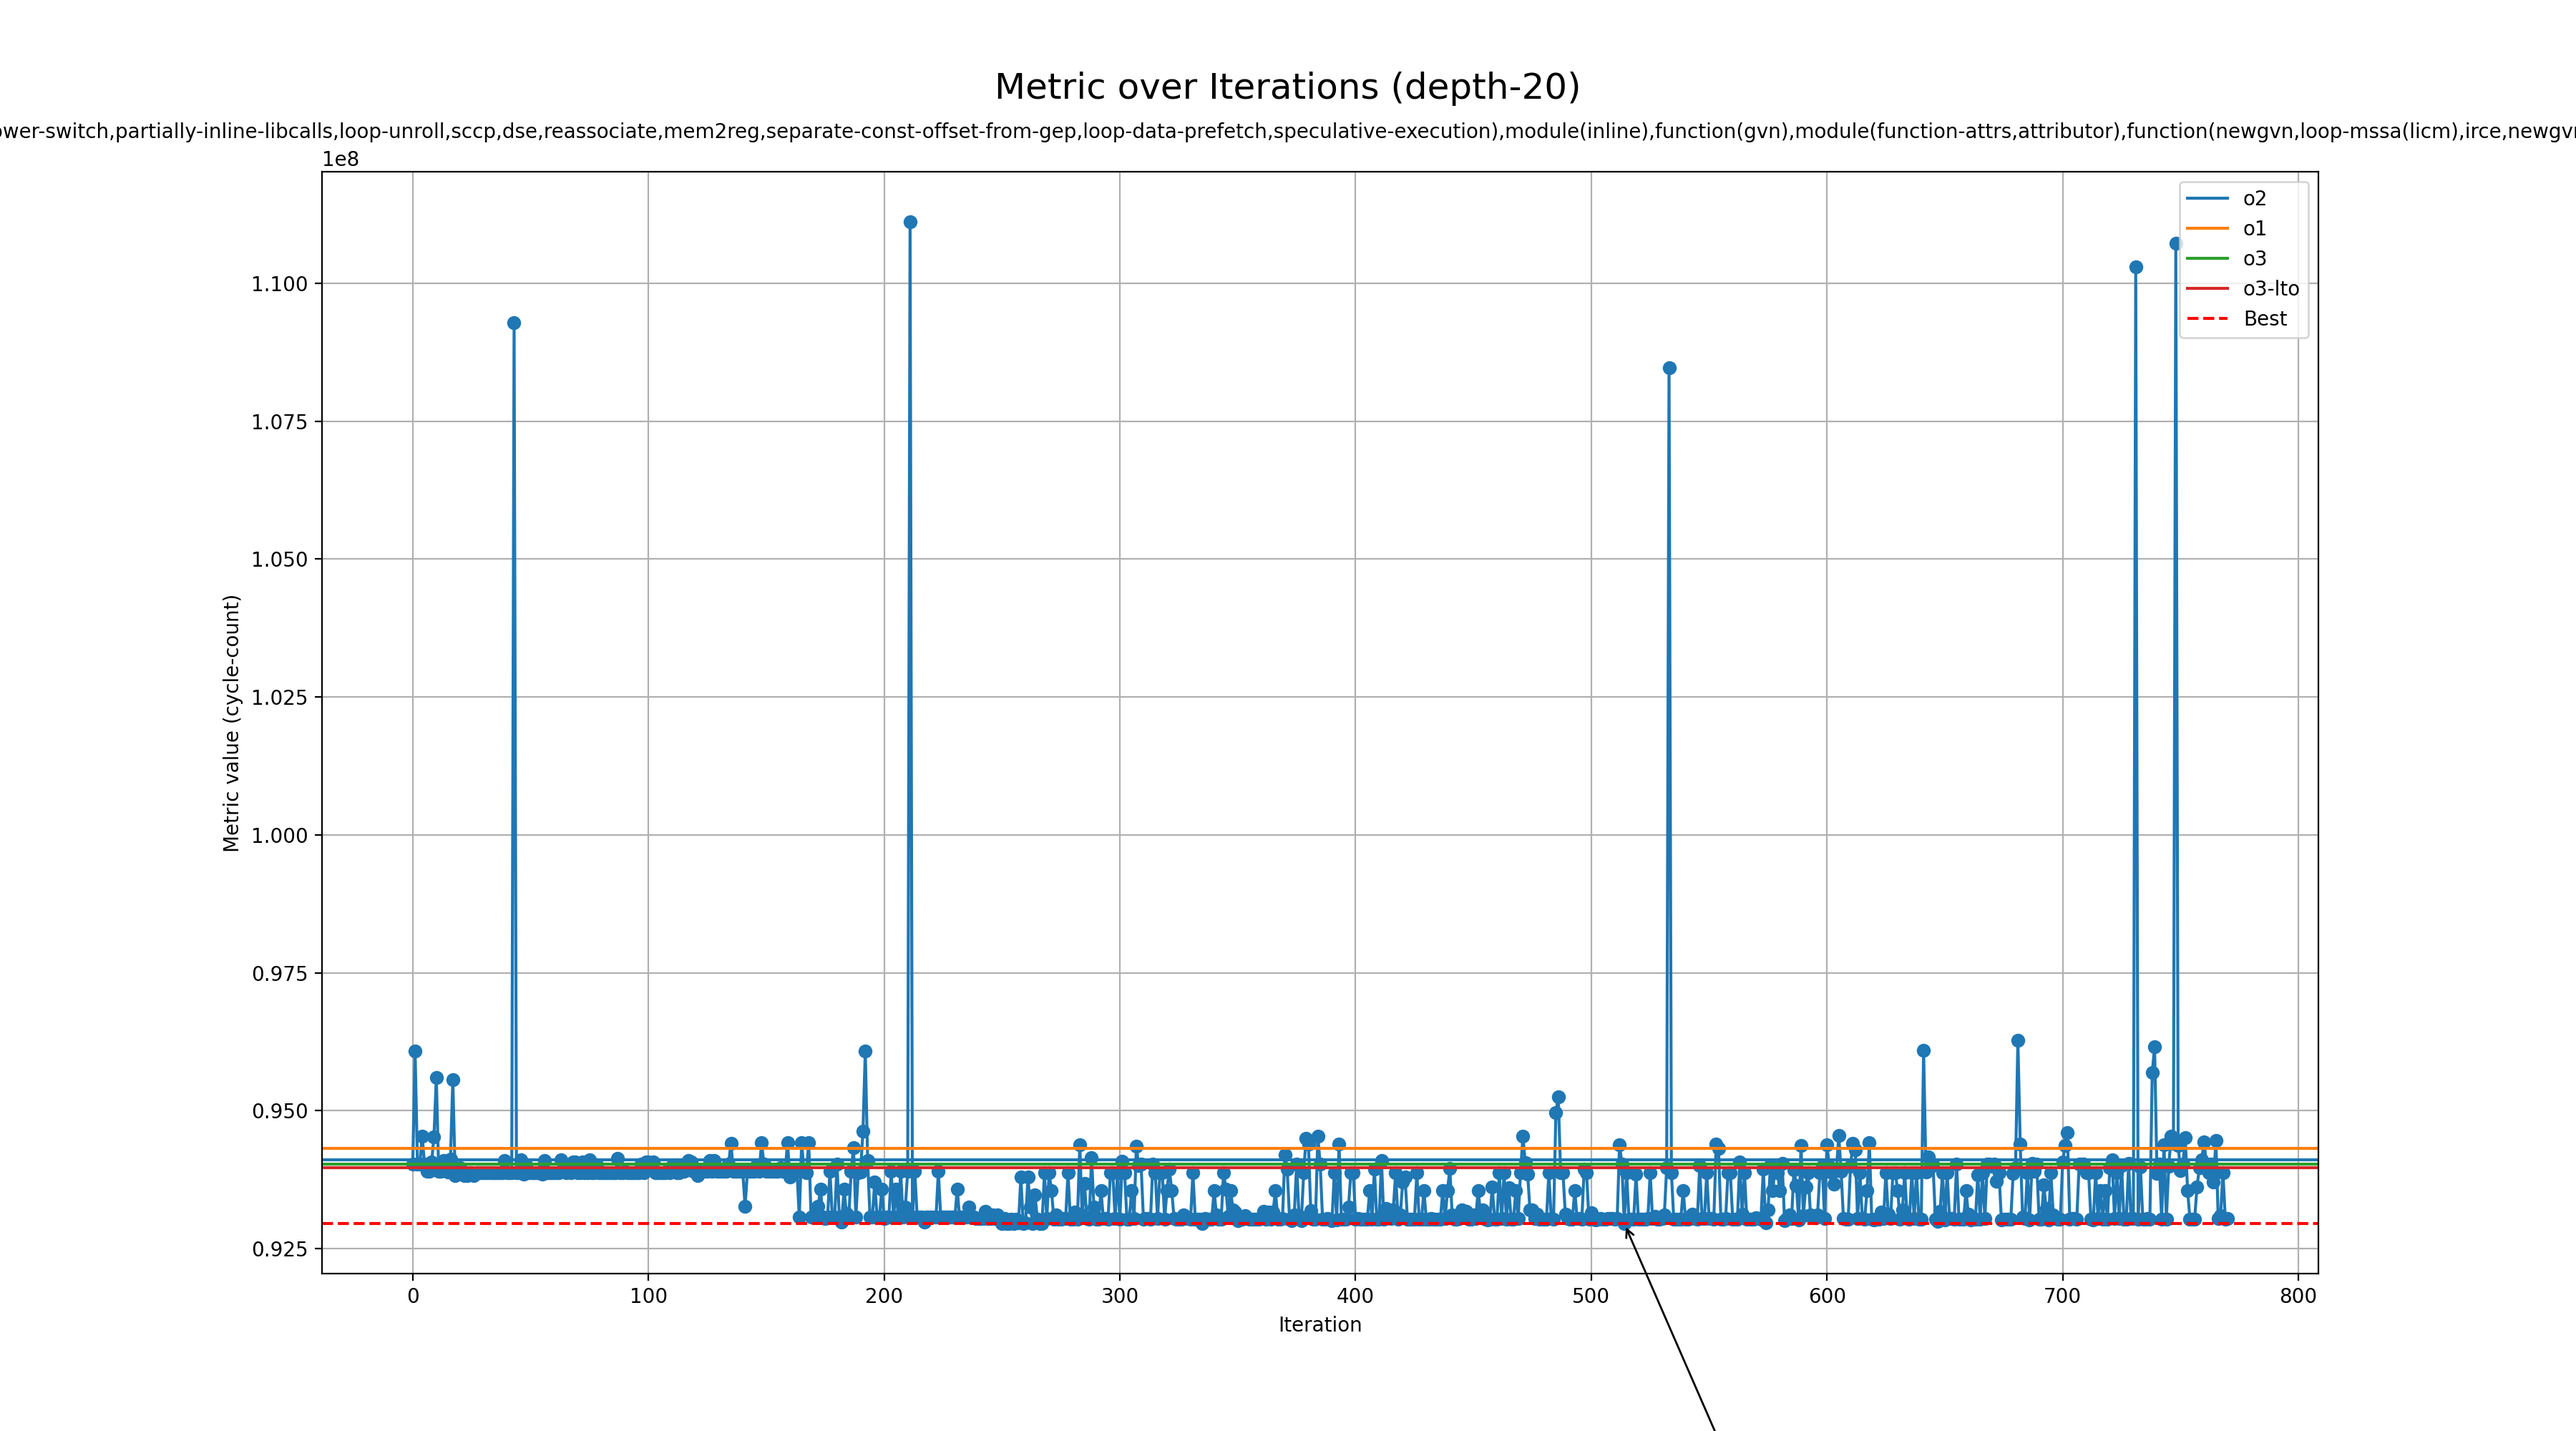
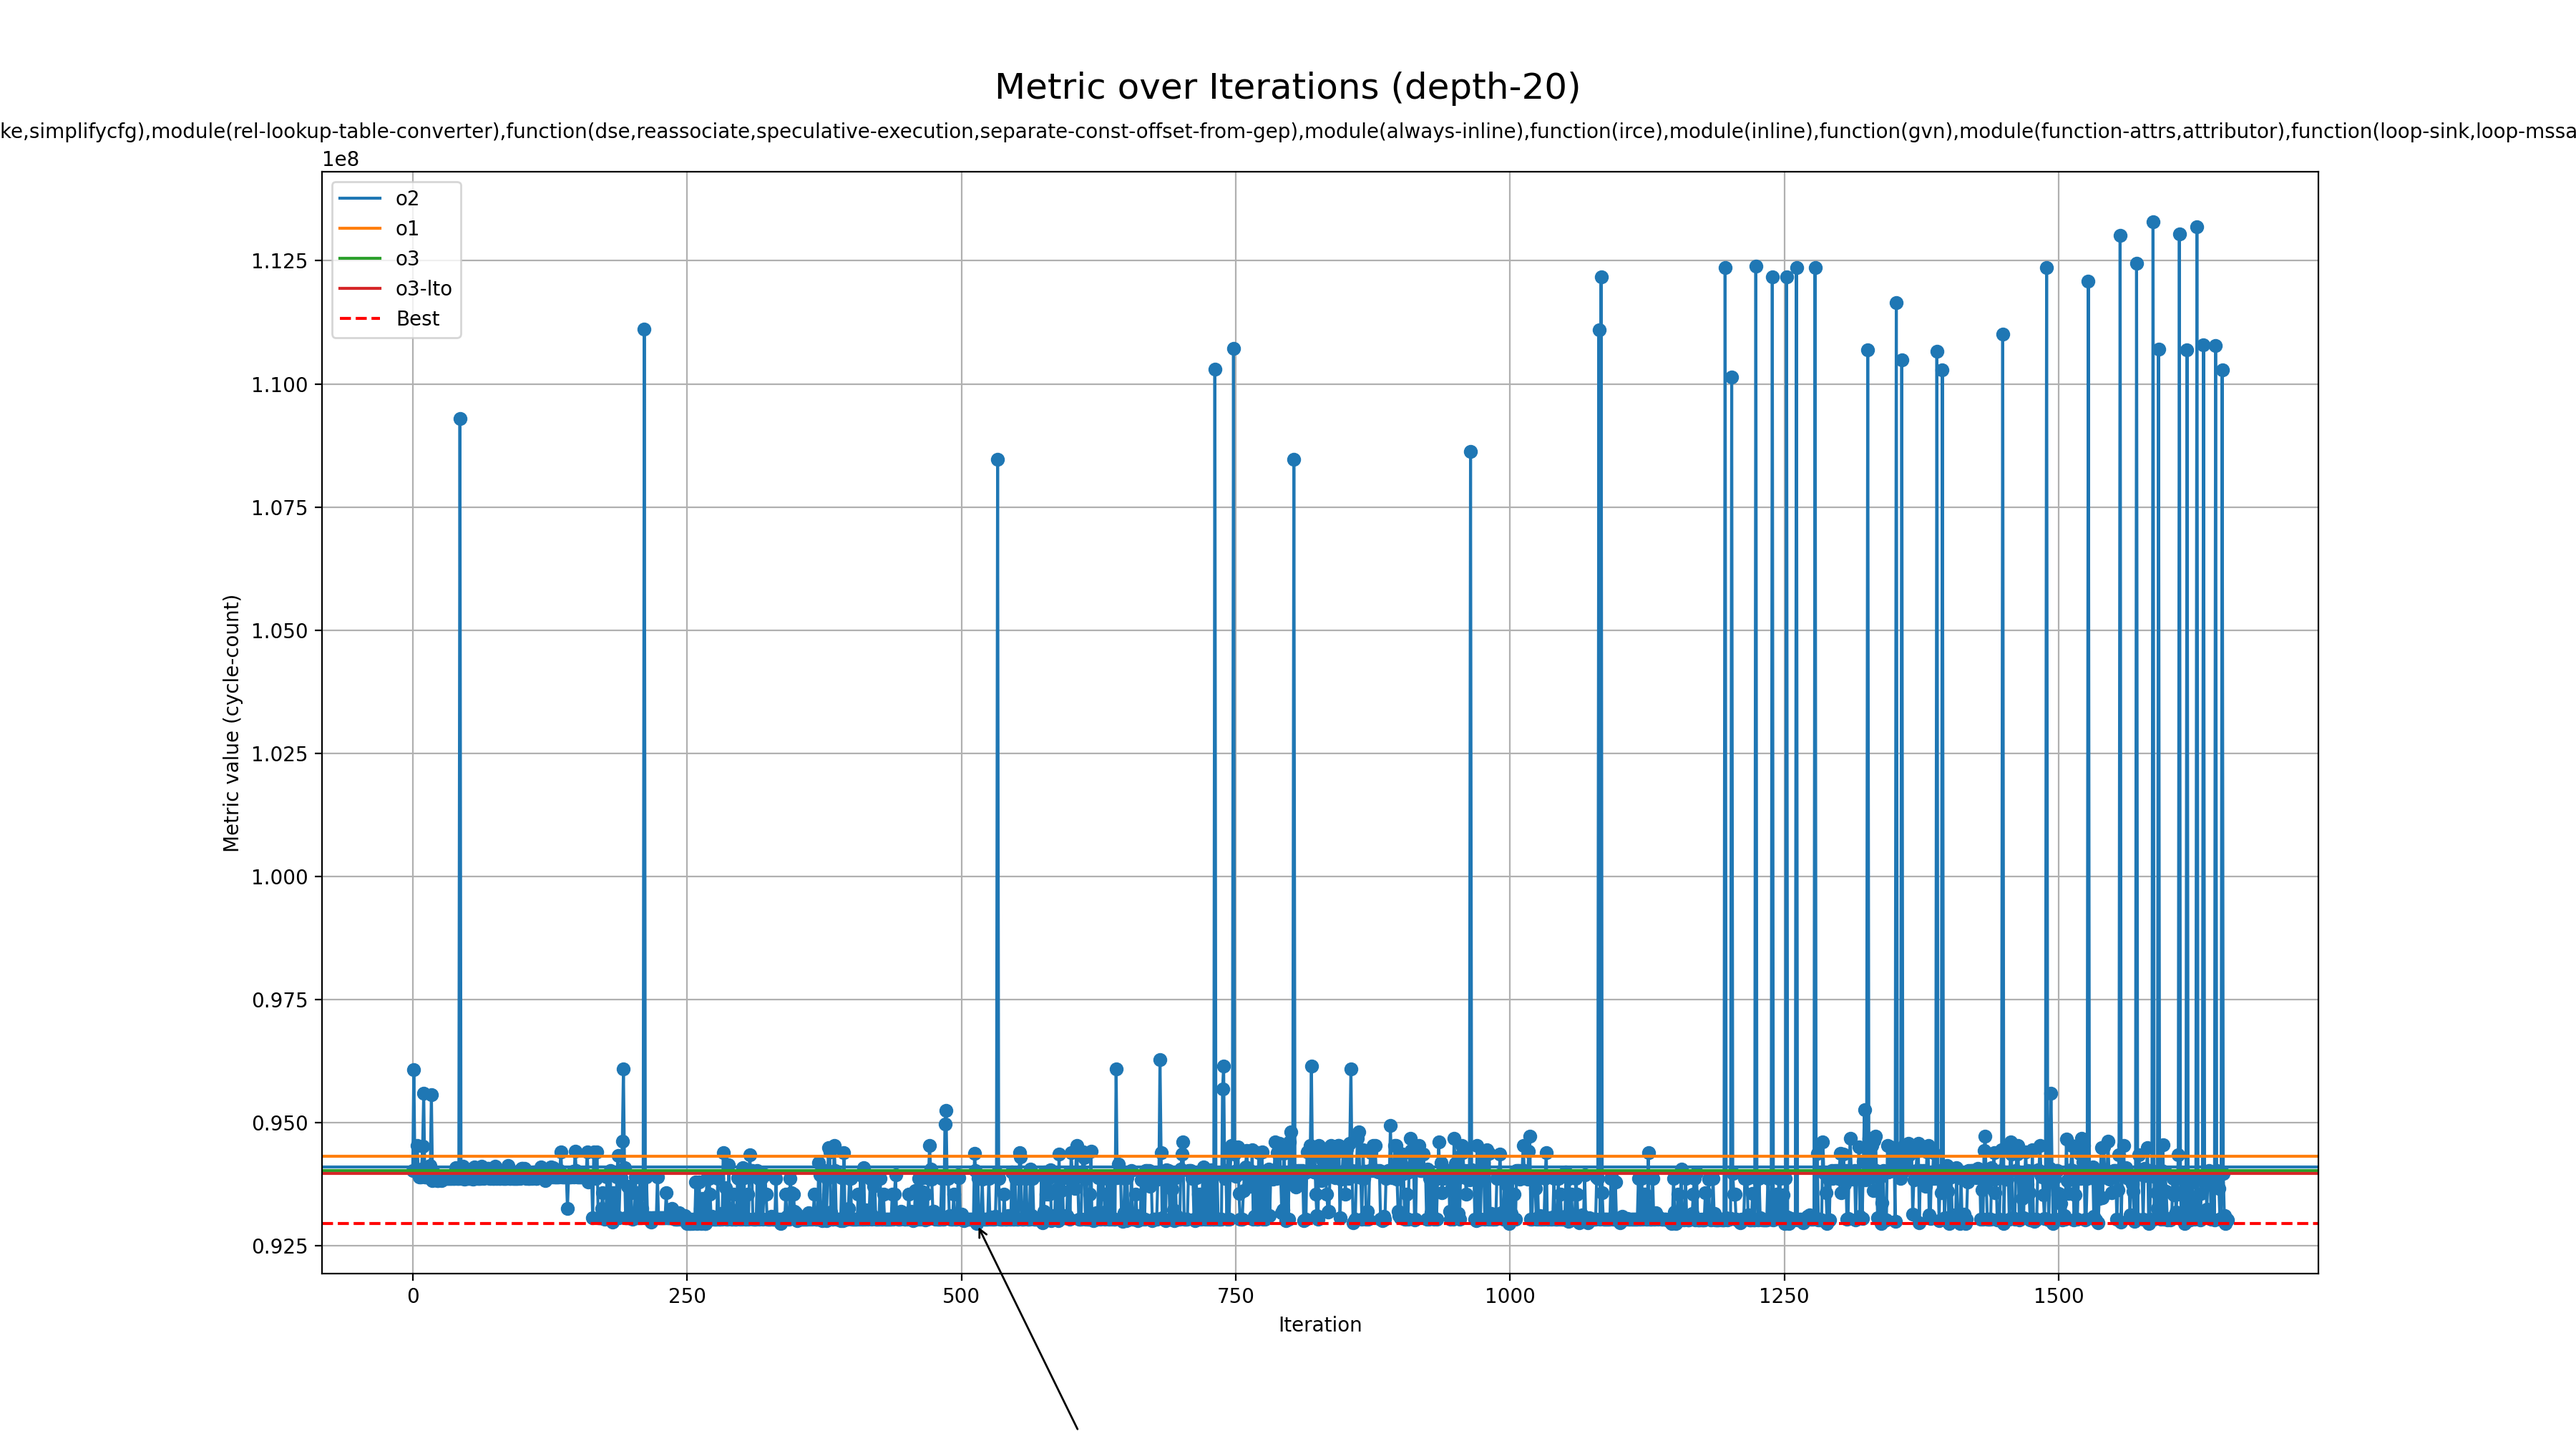
Finalize npb-cycle-count report

diff --git a/results/docs/rq2/report/all-npb-cycle-count/README.md b/results/docs/rq2/report/all-npb-cycle-count/README.md
@@ -22,8 +22,8 @@
 
 ## Best profile
 
-- Best profile: Profile(profile_name='genetic', rustflags='-C opt-level=3 -C lto=fat -C embed-bitcode -C codegen-units=1 -Cllvm-args=-inline-threshold=4328 -Cllvm-args=-jump-threading-implication-search-threshold=7 -Cllvm-args=-licm-max-num-uses-traversed=1 -Cllvm-args=-licm-versioning-max-depth-threshold=1 -Cllvm-args=-loop-distribute-scev-check-threshold=37 -Cllvm-args=-max-dependences=23 -Cllvm-args=-max-nested-scalar-reduction-interleave=2 -Cllvm-args=-max-speculation-depth=1 -Cllvm-args=-memdep-block-scan-limit=276', cflags='-O3 -mllvm -inline-threshold=4328 -mllvm -jump-threading-implication-search-threshold=7 -mllvm -licm-max-num-uses-traversed=1 -mllvm -licm-versioning-max-depth-threshold=1 -mllvm -loop-distribute-scev-check-threshold=37 -mllvm -max-dependences=23 -mllvm -max-nested-scalar-reduction-interleave=2 -mllvm -max-speculation-depth=1 -mllvm -memdep-block-scan-limit=276', passes=['function(lower-switch,partially-inline-libcalls,loop-unroll,sccp,dse,reassociate,mem2reg,separate-const-offset-from-gep,loop-data-prefetch,speculative-execution),module(inline),function(gvn),module(function-attrs,attributor),function(newgvn,loop-mssa(licm),irce,newgvn,loop(loop-reduce),loop-data-prefetch)'], prepopulate_passes=True, lower_atomic_before=False)
-- Metric: 376764825
+- Best profile: Profile(profile_name='genetic', rustflags='-C opt-level=3 -C lto=fat -C embed-bitcode -C codegen-units=1 -Cllvm-args=-inline-threshold=4328 -Cllvm-args=-jump-threading-implication-search-threshold=8 -Cllvm-args=-licm-versioning-max-depth-threshold=1 -Cllvm-args=-max-nested-scalar-reduction-interleave=2 -Cllvm-args=-max-speculation-depth=1 -Cllvm-args=-max-uses-for-sinking=47 -Cllvm-args=-memdep-block-number-limit=1121 -Cllvm-args=-memdep-block-scan-limit=276', cflags='-O3 -mllvm -inline-threshold=4328 -mllvm -jump-threading-implication-search-threshold=8 -mllvm -licm-versioning-max-depth-threshold=1 -mllvm -max-nested-scalar-reduction-interleave=2 -mllvm -max-speculation-depth=1 -mllvm -max-uses-for-sinking=47 -mllvm -memdep-block-number-limit=1121 -mllvm -memdep-block-scan-limit=276', passes=['function(lower-invoke,simplifycfg),module(rel-lookup-table-converter),function(dse,reassociate,speculative-execution,separate-const-offset-from-gep),module(always-inline),function(irce),module(inline),function(gvn),module(function-attrs,attributor),function(loop-sink,loop-mssa(licm),dse,newgvn,loop(loop-reduce),reg2mem)'], prepopulate_passes=True, lower_atomic_before=False)
+- Metric: 376601659
 - Mode: depth-20
 - Tune config: TuneConfig(tune_lto=True, tune_codegen_units=True, tune_opt_level=True, tune_prepopulate_passes=False, module_passes=['always-inline', 'inline', 'partial-inliner', 'attributor', 'add-discriminators', 'globalsplit', 'globaldce', 'globalopt', 'wholeprogramdevirt', 'lower-global-dtors', 'strip', 'strip-dead-debug-info', 'strip-dead-prototypes', 'bounds-checking', 'loop-extract', 'mergefunc', 'extract-blocks', 'constmerge', 'deadargelim', 'function-attrs', 'strip-gc-relocates', 'hotcoldsplit', 'argpromotion', 'ipsccp', 'synthetic-counts-propagation', 'rel-lookup-table-converter', 'aggressive-instcombine'], function_passes=['loop-mssa(licm)', 'instcombine', 'bdce', 'correlated-propagation', 'loop-sink', 'loop-data-prefetch', 'loop-fusion', 'mergeicmps', 'mldst-motion', 'newgvn', 'partially-inline-libcalls', 'sroa', 'sink', 'speculative-execution', 'slsr', 'sccp', 'gvn', 'tailcallelim', 'adce', 'dse', 'indvars', 'jump-threading', 'lcssa', 'loop-unroll', 'memcpyopt', 'loop-simplify', 'simplifycfg', 'reassociate', 'mem2reg', 'reg2mem', 'simple-loop-unswitch', 'mergereturn', 'break-crit-edges', 'dce', 'lower-invoke', 'lower-switch', 'callsite-splitting', 'consthoist', 'div-rem-pairs', 'early-cse', 'float2int', 'gvn-hoist', 'gvn-sink', 'guard-widening', 'irce', 'instsimplify', 'libcalls-shrinkwrap', 'nary-reassociate', 'separate-const-offset-from-gep'], loop_passes=['loop-idiom', 'loop-reduce', 'loop-rotate', 'loop-unroll-and-jam', 'loop-unroll-full', 'loop-deletion', 'loop-instsimplify', 'loop-interchange', 'loop-predication', 'loop-versioning-licm'], allowed_opt_levels=['2', '3'], default_prepopulate_passes=True, default_single_codegen_unit=True, allowed_lto=['off', 'thin', 'fat'])
 
@@ -61,15 +61,15 @@
 ### Group loop-intensive
   
 ![genetic-plot-loop-intensive](./genetic-plot-loop-intensive.png)
-### Group rust
-  
-![genetic-plot-rust](./genetic-plot-rust.png)
-### Group memory-intensive
-  
-![genetic-plot-memory-intensive](./genetic-plot-memory-intensive.png)
 ### Group npb
   
 ![genetic-plot-npb](./genetic-plot-npb.png)
+### Group memory-intensive
+  
+![genetic-plot-memory-intensive](./genetic-plot-memory-intensive.png)
+### Group rust
+  
+![genetic-plot-rust](./genetic-plot-rust.png)
 ## Overview by zkVM
 
 ### zkVM risc0
